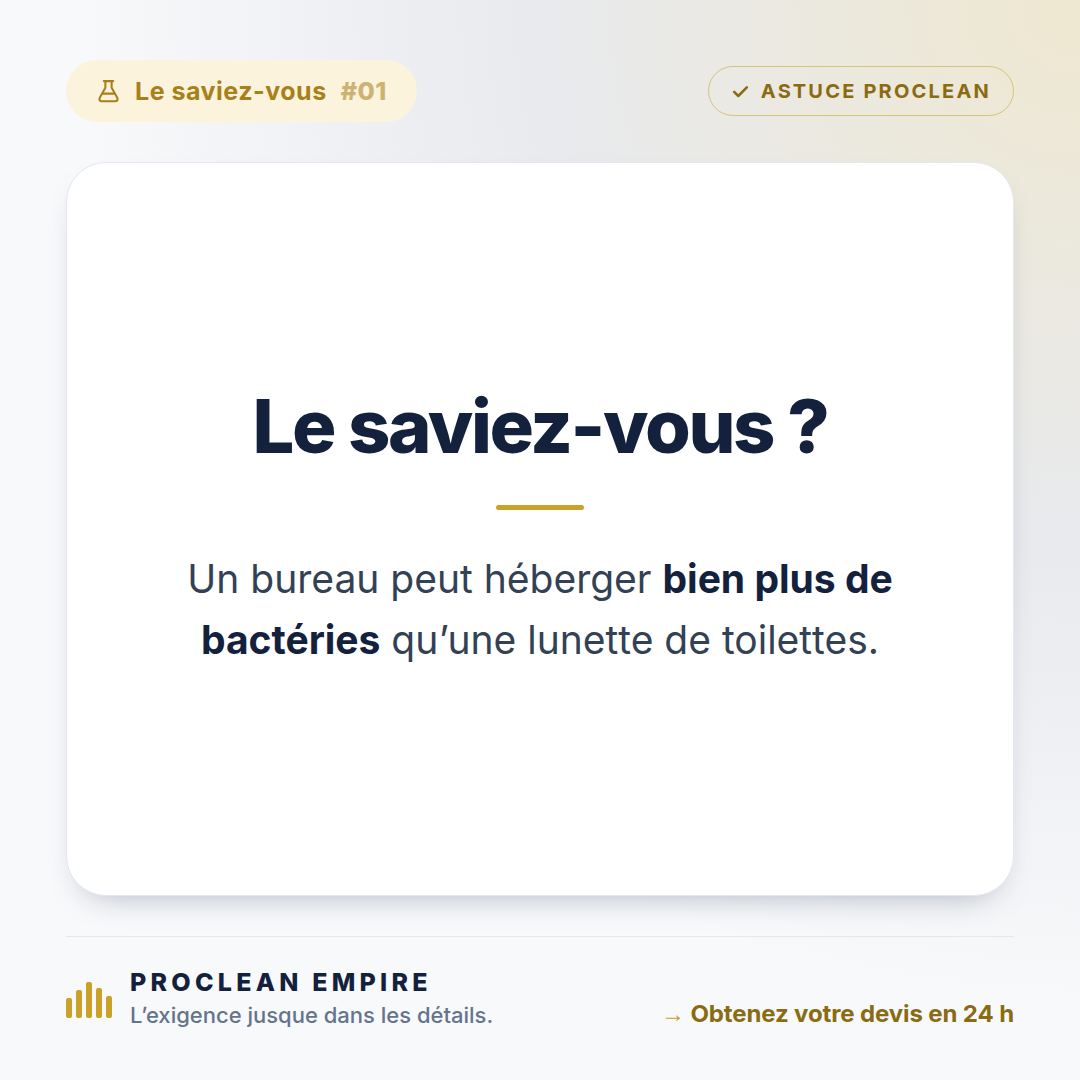
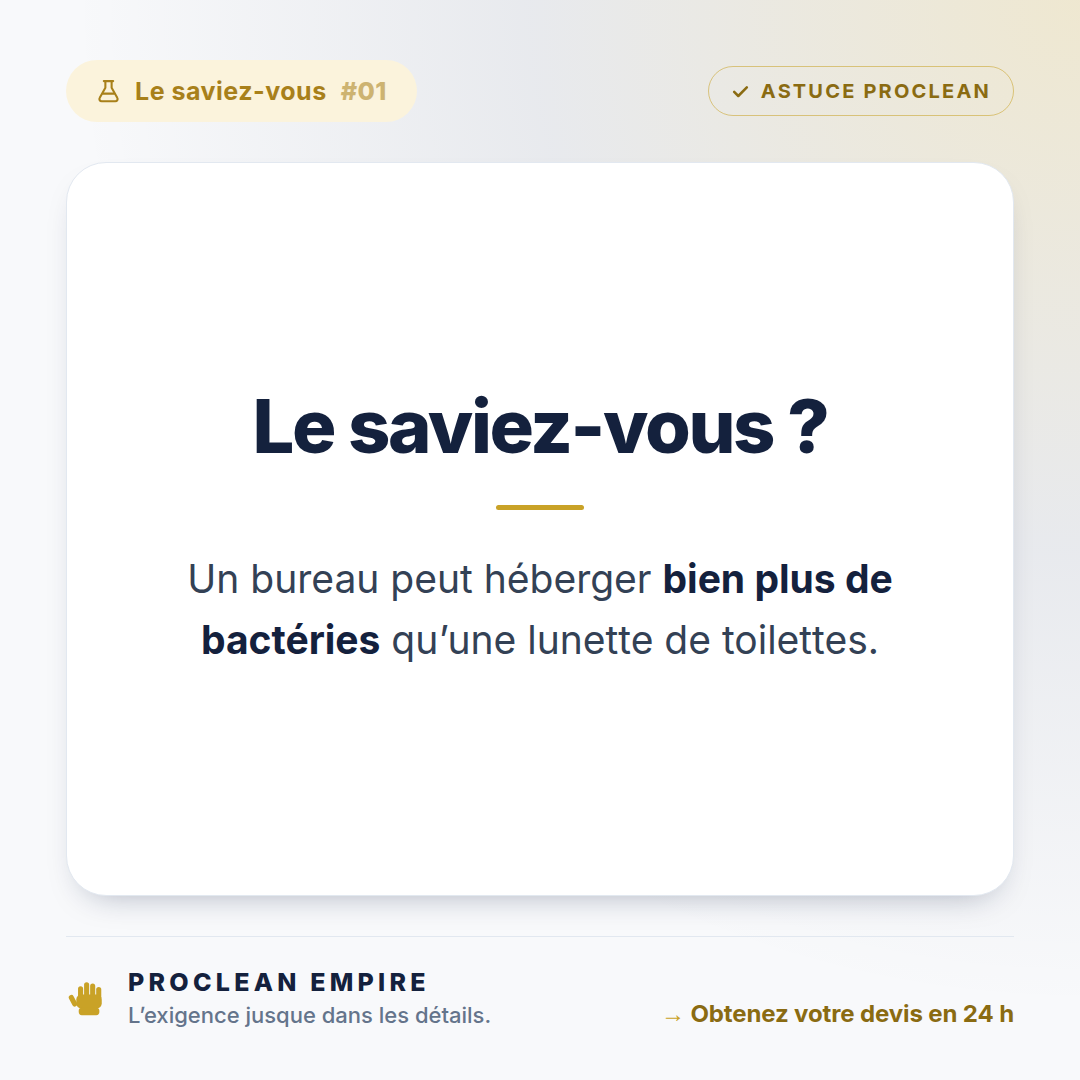
Make the white glove the primary brand symbol
The butler is a category cue - the trade is already full of butlers,
maids and Monsieur Propre. The white glove reads as inspection and
zero-defect instead, and it happens to be literal to the work.

Adds the glove as a geometric mark with three treatments, a reduction
test down to favicon size, and the "Le Test du Gant Blanc" seal in light
and dark. The glove now replaces the skyline bars as the recurring mark
in every post footer, and carries the proof seal on the before/after,
realisation and backstage posts.

The butler stays as narrator on the advice posts only, which is the role
it earns.

Claude-Session: https://claude.ai/code/session_01Mxdu93gp3qUqySFn8KFPEm

Changed region(s): [[0.0611, 0.8861, 0.4583, 0.9472]]

diff --git a/docs/reseaux-sociaux/visuels/visuels.html b/docs/reseaux-sociaux/visuels/visuels.html
@@ -151,6 +151,7 @@
   #v10 .shotwrap img { width: 100%; height: 100%; object-fit: cover; object-position: center 20%; display: block; }
   #v10 .top { position: absolute; left: 66px; right: 66px; top: 60px; z-index: 2; }
   #v10 .seal { border-color: rgba(255,255,255,.6); color: #fff; background: rgba(20,33,61,.42); }
+  #v10 .seal .gant { color: #c9a227; }
   #v10 .plate { flex: 1; background: var(--navy); padding: 56px 72px 52px; display: flex; flex-direction: column; }
   #v10 .plate h1 { color: #fff; font-size: 58px; line-height: 1.2; }
   #v10 .plate .sig { margin-top: 22px; font-size: 28px; font-weight: 600; color: var(--gold); }
@@ -161,6 +162,7 @@
 
   .badge .ico { width: 25px; height: 25px; flex: 0 0 auto; }
   .seal .ico { width: 19px; height: 19px; flex: 0 0 auto; }
+  .seal .gant { width: 27px; height: 27px; flex: 0 0 auto; color: var(--gold-ink); margin-left: -3px; }
   .seal .butler { width: 34px; height: 34px; flex: 0 0 auto; color: var(--navy); margin: -6px 2px -6px -4px; }
   .key, #v6 .row .tx b.key, .s p b.key { color: var(--gold-ink); font-weight: 800; }
   .foot .cta { letter-spacing: -.005em; }
@@ -191,6 +193,16 @@
     <path d="M4 12.5l5.2 5.2L20 6.9"/>
   </symbol>
 
+  <symbol id="gant" viewBox="0 0 64 64">
+    <rect x="17.5" y="15" width="7.4" height="20" rx="3.7" fill="currentColor"/>
+    <rect x="26.3" y="9"  width="7.4" height="26" rx="3.7" fill="currentColor"/>
+    <rect x="35.1" y="11" width="7.4" height="24" rx="3.7" fill="currentColor"/>
+    <rect x="43.9" y="16" width="7.4" height="19" rx="3.7" fill="currentColor"/>
+    <rect x="6.5" y="27" width="7.4" height="18" rx="3.7" fill="currentColor" transform="rotate(-28 10.2 36)"/>
+    <rect x="15" y="27" width="37" height="20" rx="7" fill="currentColor"/>
+    <rect x="18.5" y="46" width="30" height="11" rx="4.5" fill="currentColor"/>
+  </symbol>
+
   <!-- Le Majordome ProClean -->
   <symbol id="butler" viewBox="0 0 64 64">
     <circle cx="32" cy="17.5" r="9.6" fill="currentColor"/>
@@ -215,7 +227,7 @@
     <p class="sub">Concentration, image de marque, bien-être des équipes : tout commence par un environnement maîtrisé.</p>
     <div class="foot">
       <div class="left">
-        <svg class="mark" width="46" height="40" viewBox="0 0 46 40" fill="#c9a227"><rect x="0" y="20" width="6" height="20" rx="2"/><rect x="10" y="12" width="6" height="28" rx="2"/><rect x="20" y="4" width="6" height="36" rx="2"/><rect x="30" y="10" width="6" height="30" rx="2"/><rect x="40" y="18" width="6" height="22" rx="2"/></svg>
+        <svg class="mark" width="44" height="44" style="color:#c9a227"><use href="#gant"/></svg>
         <div><div class="name">PROCLEAN EMPIRE</div><div class="base">L&rsquo;exigence jusque dans les détails.</div></div>
       </div>
       <span class="cta"><i>&rarr;</i> Parlons de votre projet</span>
@@ -229,7 +241,7 @@
   <div class="stage">
     <div class="top">
       <span class="badge preuve"><svg class="ico"><use href="#i-swap"/></svg>Avant / Après <span class="num">#01</span></span>
-      <span class="seal"><svg class="ico"><use href="#i-check"/></svg>Méthode ProClean</span></div>
+      <span class="seal"><svg class="gant"><use href="#gant"/></svg>Le Test du Gant Blanc</span></div>
     <h1>Le remplacement était envisagé.<br>Il n&rsquo;a pas été nécessaire</h1>
     <div class="panel shot">
       <div class="half">
@@ -243,7 +255,7 @@
     </div>
     <div class="foot">
       <div class="left">
-        <svg class="mark" width="46" height="40" viewBox="0 0 46 40" fill="#c9a227"><rect x="0" y="20" width="6" height="20" rx="2"/><rect x="10" y="12" width="6" height="28" rx="2"/><rect x="20" y="4" width="6" height="36" rx="2"/><rect x="30" y="10" width="6" height="30" rx="2"/><rect x="40" y="18" width="6" height="22" rx="2"/></svg>
+        <svg class="mark" width="44" height="44" style="color:#c9a227"><use href="#gant"/></svg>
         <div><div class="name">PROCLEAN EMPIRE</div><div class="base">L&rsquo;exigence jusque dans les détails.</div></div>
       </div>
       <span class="cta"><i>&rarr;</i> Découvrez nos réalisations</span>
@@ -265,7 +277,7 @@
     </div>
     <div class="foot">
       <div class="left">
-        <svg class="mark" width="46" height="40" viewBox="0 0 46 40" fill="#c9a227"><rect x="0" y="20" width="6" height="20" rx="2"/><rect x="10" y="12" width="6" height="28" rx="2"/><rect x="20" y="4" width="6" height="36" rx="2"/><rect x="30" y="10" width="6" height="30" rx="2"/><rect x="40" y="18" width="6" height="22" rx="2"/></svg>
+        <svg class="mark" width="44" height="44" style="color:#c9a227"><use href="#gant"/></svg>
         <div><div class="name">PROCLEAN EMPIRE</div><div class="base">L&rsquo;exigence jusque dans les détails.</div></div>
       </div>
       <span class="cta"><i>&rarr;</i> Obtenez votre devis en 24 h</span>
@@ -287,7 +299,7 @@
     </div>
     <div class="foot">
       <div class="left">
-        <svg class="mark" width="46" height="40" viewBox="0 0 46 40" fill="#c9a227"><rect x="0" y="20" width="6" height="20" rx="2"/><rect x="10" y="12" width="6" height="28" rx="2"/><rect x="20" y="4" width="6" height="36" rx="2"/><rect x="30" y="10" width="6" height="30" rx="2"/><rect x="40" y="18" width="6" height="22" rx="2"/></svg>
+        <svg class="mark" width="44" height="44" style="color:#c9a227"><use href="#gant"/></svg>
         <div><div class="name">PROCLEAN EMPIRE</div><div class="base">L&rsquo;exigence jusque dans les détails.</div></div>
       </div>
       <span class="cta"><i>&rarr;</i> Contactez un expert ProClean</span>
@@ -310,7 +322,7 @@
     </div>
     <div class="foot">
       <div class="left">
-        <svg class="mark" width="46" height="40" viewBox="0 0 46 40" fill="#c9a227"><rect x="0" y="20" width="6" height="20" rx="2"/><rect x="10" y="12" width="6" height="28" rx="2"/><rect x="20" y="4" width="6" height="36" rx="2"/><rect x="30" y="10" width="6" height="30" rx="2"/><rect x="40" y="18" width="6" height="22" rx="2"/></svg>
+        <svg class="mark" width="44" height="44" style="color:#c9a227"><use href="#gant"/></svg>
         <div><div class="name">PROCLEAN EMPIRE</div><div class="base">L&rsquo;exigence jusque dans les détails.</div></div>
       </div>
       <span class="cta"><i>&rarr;</i> Parlons de votre projet</span>
@@ -336,7 +348,7 @@
     </div>
     <div class="foot">
       <div class="left">
-        <svg class="mark" width="46" height="40" viewBox="0 0 46 40" fill="#c9a227"><rect x="0" y="20" width="6" height="20" rx="2"/><rect x="10" y="12" width="6" height="28" rx="2"/><rect x="20" y="4" width="6" height="36" rx="2"/><rect x="30" y="10" width="6" height="30" rx="2"/><rect x="40" y="18" width="6" height="22" rx="2"/></svg>
+        <svg class="mark" width="44" height="44" style="color:#c9a227"><use href="#gant"/></svg>
         <div><div class="name">PROCLEAN EMPIRE</div><div class="base">L&rsquo;exigence jusque dans les détails.</div></div>
       </div>
       <span class="cta"><i>&rarr;</i> Obtenez votre devis en 24 h</span>
@@ -366,7 +378,7 @@
     </div>
     <div class="foot">
       <div class="left">
-        <svg class="mark" width="46" height="40" viewBox="0 0 46 40" fill="#c9a227"><rect x="0" y="20" width="6" height="20" rx="2"/><rect x="10" y="12" width="6" height="28" rx="2"/><rect x="20" y="4" width="6" height="36" rx="2"/><rect x="30" y="10" width="6" height="30" rx="2"/><rect x="40" y="18" width="6" height="22" rx="2"/></svg>
+        <svg class="mark" width="44" height="44" style="color:#c9a227"><use href="#gant"/></svg>
         <div><div class="name">PROCLEAN EMPIRE</div><div class="base">L&rsquo;exigence jusque dans les détails.</div></div>
       </div>
       <span class="cta"><i>&rarr;</i> Contactez un expert ProClean</span>
@@ -380,7 +392,7 @@
   <div class="stage">
     <div class="top">
       <span class="badge preuve"><svg class="ico"><use href="#i-pin"/></svg>Réalisation <span class="num">#01</span></span>
-      <span class="seal"><svg class="ico"><use href="#i-check"/></svg>Méthode ProClean</span></div>
+      <span class="seal"><svg class="gant"><use href="#gant"/></svg>Le Test du Gant Blanc</span></div>
     <h1>Ce n&rsquo;est pas une banquette neuve.<br>C&rsquo;est la même</h1>
     <div class="panel shot">
       <img src="../../../../../home/user/https-procleanempire-multiservice.manus.space/public/media/photos/banquette-arriere-apres.jpeg" alt="">
@@ -388,7 +400,7 @@
     </div>
     <div class="foot">
       <div class="left">
-        <svg class="mark" width="46" height="40" viewBox="0 0 46 40" fill="#c9a227"><rect x="0" y="20" width="6" height="20" rx="2"/><rect x="10" y="12" width="6" height="28" rx="2"/><rect x="20" y="4" width="6" height="36" rx="2"/><rect x="30" y="10" width="6" height="30" rx="2"/><rect x="40" y="18" width="6" height="22" rx="2"/></svg>
+        <svg class="mark" width="44" height="44" style="color:#c9a227"><use href="#gant"/></svg>
         <div><div class="name">PROCLEAN EMPIRE</div><div class="base">L&rsquo;exigence jusque dans les détails.</div></div>
       </div>
       <span class="cta"><i>&rarr;</i> Découvrez nos réalisations</span>
@@ -402,14 +414,14 @@
   <div class="stage">
     <div class="top">
       <span class="badge preuve"><svg class="ico"><use href="#i-pin"/></svg>Réalisation <span class="num">#02</span></span>
-      <span class="seal"><svg class="ico"><use href="#i-check"/></svg>Méthode ProClean</span></div>
+      <span class="seal"><svg class="gant"><use href="#gant"/></svg>Le Test du Gant Blanc</span></div>
     <h1>On ne nettoie pas un avion comme une voiture</h1>
     <div class="panel shot">
       <img src="../../../../../home/user/https-procleanempire-multiservice.manus.space/public/media/photos/nettoyage-avion-cessna.jpeg" alt="">
     </div>
     <div class="foot">
       <div class="left">
-        <svg class="mark" width="46" height="40" viewBox="0 0 46 40" fill="#c9a227"><rect x="0" y="20" width="6" height="20" rx="2"/><rect x="10" y="12" width="6" height="28" rx="2"/><rect x="20" y="4" width="6" height="36" rx="2"/><rect x="30" y="10" width="6" height="30" rx="2"/><rect x="40" y="18" width="6" height="22" rx="2"/></svg>
+        <svg class="mark" width="44" height="44" style="color:#c9a227"><use href="#gant"/></svg>
         <div><div class="name">PROCLEAN EMPIRE</div><div class="base">L&rsquo;exigence jusque dans les détails.</div></div>
       </div>
       <span class="cta"><i>&rarr;</i> Découvrez nos réalisations</span>
@@ -424,14 +436,14 @@
       <img src="../../../../../home/user/https-procleanempire-multiservice.manus.space/public/media/photos/fondateur-proclean-empire.jpeg" alt="">
       <div class="top">
         <span class="badge coulisses"><svg class="ico"><use href="#i-cam"/></svg>Les coulisses <span class="num">#01</span></span>
-        <span class="seal"><svg class="ico"><use href="#i-check"/></svg>Méthode ProClean</span></div>
+        <span class="seal"><svg class="gant"><use href="#gant"/></svg>Le Test du Gant Blanc</span></div>
     </div>
     <div class="plate">
       <h1>Pourquoi j&rsquo;ai créé ProClean Empire</h1>
       <div class="sig">Kevin H. — Fondateur</div>
       <div class="foot">
         <div class="left">
-          <svg class="mark" width="46" height="40" viewBox="0 0 46 40" fill="#c9a227"><rect x="0" y="20" width="6" height="20" rx="2"/><rect x="10" y="12" width="6" height="28" rx="2"/><rect x="20" y="4" width="6" height="36" rx="2"/><rect x="30" y="10" width="6" height="30" rx="2"/><rect x="40" y="18" width="6" height="22" rx="2"/></svg>
+          <svg class="mark" width="44" height="44" style="color:#c9a227"><use href="#gant"/></svg>
           <div><div class="name">PROCLEAN EMPIRE</div><div class="base">L&rsquo;exigence jusque dans les détails.</div></div>
         </div>
         <span class="cta"><i>&rarr;</i> Parlons de votre projet</span>

diff --git a/docs/reseaux-sociaux/identite/gant.html b/docs/reseaux-sociaux/identite/gant.html
@@ -1,0 +1,174 @@
+<!doctype html>
+<html lang="fr">
+<head>
+<meta charset="utf-8">
+<style>
+  @font-face { font-family: "Inter"; src: url("node_modules/@fontsource/inter/files/inter-latin-400-normal.woff2") format("woff2"); font-weight: 400; }
+  @font-face { font-family: "Inter"; src: url("node_modules/@fontsource/inter/files/inter-latin-500-normal.woff2") format("woff2"); font-weight: 500; }
+  @font-face { font-family: "Inter"; src: url("node_modules/@fontsource/inter/files/inter-latin-600-normal.woff2") format("woff2"); font-weight: 600; }
+  @font-face { font-family: "Inter"; src: url("node_modules/@fontsource/inter/files/inter-latin-700-normal.woff2") format("woff2"); font-weight: 700; }
+  @font-face { font-family: "Inter"; src: url("node_modules/@fontsource/inter/files/inter-latin-800-normal.woff2") format("woff2"); font-weight: 800; }
+
+  :root {
+    --ground:#f8f9fb; --navy:#14213d; --slate:#334155; --slate-soft:#64748b;
+    --line:#e2e8f0; --gold:#c9a227; --gold-ink:#8a6b12;
+  }
+  * { margin:0; padding:0; box-sizing:border-box; }
+  body { background:#888; font-family:Inter, sans-serif; }
+
+  .sheet { width:1080px; margin:40px auto; background:var(--ground); padding:70px 72px 60px; }
+  .eyebrow { font-size:22px; font-weight:700; letter-spacing:.2em; text-transform:uppercase; color:var(--gold-ink); }
+  h1 { font-size:62px; font-weight:800; letter-spacing:-.032em; color:var(--navy); line-height:1.12; margin-top:18px; }
+  .lead { margin-top:20px; font-size:27px; line-height:1.6; color:var(--slate); max-width:820px; }
+
+  h2 { margin-top:56px; font-size:19px; font-weight:700; letter-spacing:.17em; text-transform:uppercase;
+       color:var(--slate-soft); padding-bottom:12px; border-bottom:1px solid var(--line); }
+
+  .row { display:flex; gap:20px; margin-top:26px; align-items:stretch; }
+  .box { flex:1; border:1px solid var(--line); border-radius:28px; background:#fff;
+         padding:32px 26px; display:flex; flex-direction:column; align-items:center; gap:20px; }
+  .box.navy { background:var(--navy); border-color:var(--navy); }
+  .box.gold { background:var(--gold); border-color:var(--gold); }
+  .box .cap { font-size:19px; font-weight:600; color:var(--slate-soft); text-align:center; }
+  .box.navy .cap { color:#9aa8c4; }
+  .box.gold .cap { color:#4a3a08; }
+
+  .sizes { display:flex; align-items:flex-end; gap:44px; margin-top:26px;
+           background:#fff; border:1px solid var(--line); border-radius:28px; padding:34px 40px; }
+  .sizes .u { display:flex; flex-direction:column; align-items:center; gap:12px; }
+  .sizes .u .n { font-size:17px; font-weight:600; color:var(--slate-soft); }
+
+  .stamps { display:flex; gap:24px; margin-top:26px; align-items:center; }
+  .stamp-box { border:1px solid var(--line); border-radius:28px; background:#fff; padding:30px; }
+  .stamp-box.navy { background:var(--navy); border-color:var(--navy); }
+
+  .uses { display:grid; grid-template-columns:1fr 1fr; gap:16px; margin-top:26px; }
+  .use { display:flex; align-items:center; gap:18px; background:#fff; border:1px solid var(--line);
+         border-radius:22px; padding:20px 24px; }
+  .use .t { font-size:24px; font-weight:600; color:var(--navy); }
+  .use .d { font-size:20px; color:var(--slate-soft); margin-top:2px; }
+
+  .foot { margin-top:56px; padding-top:26px; border-top:1px solid var(--line);
+          display:flex; align-items:flex-end; justify-content:space-between; }
+  .foot .name { font-size:24px; font-weight:800; letter-spacing:.17em; color:var(--navy); }
+  .foot .base { margin-top:5px; font-size:21px; font-weight:500; color:var(--slate-soft); }
+  .foot .left { display:flex; align-items:center; gap:16px; }
+</style>
+</head>
+<body>
+
+<svg width="0" height="0" style="position:absolute"><defs>
+
+  <!-- LE GANT BLANC — marque stylisée -->
+  <symbol id="gant" viewBox="0 0 64 64">
+    <!-- doigts -->
+    <rect x="17.5" y="15" width="7.4" height="20" rx="3.7" fill="currentColor"/>
+    <rect x="26.3" y="9"  width="7.4" height="26" rx="3.7" fill="currentColor"/>
+    <rect x="35.1" y="11" width="7.4" height="24" rx="3.7" fill="currentColor"/>
+    <rect x="43.9" y="16" width="7.4" height="19" rx="3.7" fill="currentColor"/>
+    <!-- pouce -->
+    <rect x="6.5" y="27" width="7.4" height="18" rx="3.7" fill="currentColor"
+          transform="rotate(-28 10.2 36)"/>
+    <!-- paume -->
+    <rect x="15" y="27" width="37" height="20" rx="7" fill="currentColor"/>
+    <!-- poignet -->
+    <rect x="18.5" y="46" width="30" height="11" rx="4.5" fill="currentColor"/>
+  </symbol>
+
+  <!-- variante bicolore : gant clair, poignet doré -->
+  <symbol id="gant-duo" viewBox="0 0 64 64">
+    <rect x="17.5" y="15" width="7.4" height="20" rx="3.7" fill="currentColor"/>
+    <rect x="26.3" y="9"  width="7.4" height="26" rx="3.7" fill="currentColor"/>
+    <rect x="35.1" y="11" width="7.4" height="24" rx="3.7" fill="currentColor"/>
+    <rect x="43.9" y="16" width="7.4" height="19" rx="3.7" fill="currentColor"/>
+    <rect x="6.5" y="27" width="7.4" height="18" rx="3.7" fill="currentColor"
+          transform="rotate(-28 10.2 36)"/>
+    <rect x="15" y="27" width="37" height="20" rx="7" fill="currentColor"/>
+    <rect x="18.5" y="46" width="30" height="11" rx="4.5" fill="#c9a227"/>
+  </symbol>
+
+  <path id="ringTop" d="M100,100 m-72,0 a72,72 0 0,1 144,0"/>
+  <path id="ringBot" d="M30,100 A70,70 0 0,0 170,100"/>
+</defs></svg>
+
+<section class="sheet">
+  <div class="eyebrow">Univers de marque</div>
+  <h1>Le Gant Blanc</h1>
+  <p class="lead">Le symbole. Pas un gant réaliste : une forme géométrique, construite pour rester lisible à 16 px comme sur un flanc de véhicule.</p>
+
+  <h2>Les trois traitements</h2>
+  <div class="row">
+    <div class="box">
+      <svg width="150" height="150" style="color:#14213d"><use href="#gant"/></svg>
+      <span class="cap">Bleu nuit sur fond clair<br>Usage principal</span>
+    </div>
+    <div class="box navy">
+      <svg width="150" height="150" style="color:#ffffff"><use href="#gant-duo"/></svg>
+      <span class="cap">Blanc et doré sur bleu nuit<br>Sceau, watermark vidéo</span>
+    </div>
+    <div class="box gold">
+      <svg width="150" height="150" style="color:#14213d"><use href="#gant"/></svg>
+      <span class="cap">Bleu nuit sur doré<br>Tampon, autocollant</span>
+    </div>
+  </div>
+
+  <h2>Tenue en réduction</h2>
+  <div class="sizes">
+    <div class="u"><svg width="96" height="96" style="color:#14213d"><use href="#gant"/></svg><span class="n">96 px</span></div>
+    <div class="u"><svg width="64" height="64" style="color:#14213d"><use href="#gant"/></svg><span class="n">64 px</span></div>
+    <div class="u"><svg width="40" height="40" style="color:#14213d"><use href="#gant"/></svg><span class="n">40 px</span></div>
+    <div class="u"><svg width="24" height="24" style="color:#14213d"><use href="#gant"/></svg><span class="n">24 px</span></div>
+    <div class="u"><svg width="16" height="16" style="color:#14213d"><use href="#gant"/></svg><span class="n">16 px — favicon</span></div>
+  </div>
+
+  <h2>Le Test du Gant Blanc — le sceau</h2>
+  <div class="stamps">
+    <div class="stamp-box">
+      <svg width="200" height="200" viewBox="0 0 200 200">
+        <circle cx="100" cy="100" r="94" fill="none" stroke="#14213d" stroke-width="2.5"/>
+        <circle cx="100" cy="100" r="84" fill="none" stroke="#c9a227" stroke-width="1.5"/>
+        <text font-family="Inter" font-size="13" font-weight="700" letter-spacing="1.9" fill="#14213d">
+          <textPath href="#ringTop" startOffset="50%" text-anchor="middle">LE TEST DU GANT BLANC</textPath>
+        </text>
+        <text font-family="Inter" font-size="11.5" font-weight="600" letter-spacing="2.4" fill="#8a6b12">
+          <textPath href="#ringBot" startOffset="50%" text-anchor="middle">PROCLEAN EMPIRE</textPath>
+        </text>
+        <svg x="63" y="58" width="74" height="74" style="color:#14213d"><use href="#gant"/></svg>
+      </svg>
+    </div>
+    <div class="stamp-box navy">
+      <svg width="200" height="200" viewBox="0 0 200 200">
+        <circle cx="100" cy="100" r="94" fill="none" stroke="#c9a227" stroke-width="2.5"/>
+        <circle cx="100" cy="100" r="84" fill="none" stroke="rgba(255,255,255,.35)" stroke-width="1.5"/>
+        <text font-family="Inter" font-size="13" font-weight="700" letter-spacing="1.9" fill="#ffffff">
+          <textPath href="#ringTop" startOffset="50%" text-anchor="middle">LE TEST DU GANT BLANC</textPath>
+        </text>
+        <text font-family="Inter" font-size="11.5" font-weight="600" letter-spacing="2.4" fill="#c9a227">
+          <textPath href="#ringBot" startOffset="50%" text-anchor="middle">PROCLEAN EMPIRE</textPath>
+        </text>
+        <svg x="63" y="58" width="74" height="74" style="color:#ffffff"><use href="#gant-duo"/></svg>
+      </svg>
+    </div>
+    <div style="flex:1">
+      <p class="lead" style="font-size:25px;margin:0">Le sceau se pose en fin de vidéo, sur un devis signé, sur une photo de fin de chantier. C&rsquo;est la preuve, pas la décoration.</p>
+    </div>
+  </div>
+
+  <h2>Où il vit</h2>
+  <div class="uses">
+    <div class="use"><svg width="40" height="40" style="color:#14213d"><use href="#gant"/></svg><div><div class="t">Favicon &amp; icône</div><div class="d">16 à 64 px, monochrome</div></div></div>
+    <div class="use"><svg width="40" height="40" style="color:#14213d"><use href="#gant"/></svg><div><div class="t">Watermark vidéo</div><div class="d">Coin bas droit, blanc 70 %</div></div></div>
+    <div class="use"><svg width="40" height="40" style="color:#14213d"><use href="#gant"/></svg><div><div class="t">Tampon sur devis</div><div class="d">Sceau complet, doré</div></div></div>
+    <div class="use"><svg width="40" height="40" style="color:#14213d"><use href="#gant"/></svg><div><div class="t">Autocollant véhicule</div><div class="d">Version pleine, découpe</div></div></div>
+  </div>
+
+  <div class="foot">
+    <div class="left">
+      <svg width="46" height="46" style="color:#14213d"><use href="#gant"/></svg>
+      <div><div class="name">PROCLEAN EMPIRE</div><div class="base">L&rsquo;exigence jusque dans les détails.</div></div>
+    </div>
+  </div>
+</section>
+
+</body>
+</html>

diff --git a/docs/reseaux-sociaux/identite/shoot-gant.js b/docs/reseaux-sociaux/identite/shoot-gant.js
@@ -1,0 +1,13 @@
+const { chromium } = require("playwright");
+const path = require("path");
+(async () => {
+  const b = await chromium.launch({ executablePath: "/opt/pw-browsers/chromium-1194/chrome-linux/chrome" });
+  const p = await b.newPage({ viewport: { width: 1200, height: 1600 }, deviceScaleFactor: 1 });
+  await p.goto("file://" + path.join(__dirname, "gant.html"));
+  await p.evaluate(() => document.fonts.ready);
+  await p.waitForTimeout(1000);
+  const el = await p.$(".sheet");
+  await el.screenshot({ path: path.join(__dirname, "out-gant", "00-gant-blanc-identite.png") });
+  console.log("ok");
+  await b.close();
+})();
